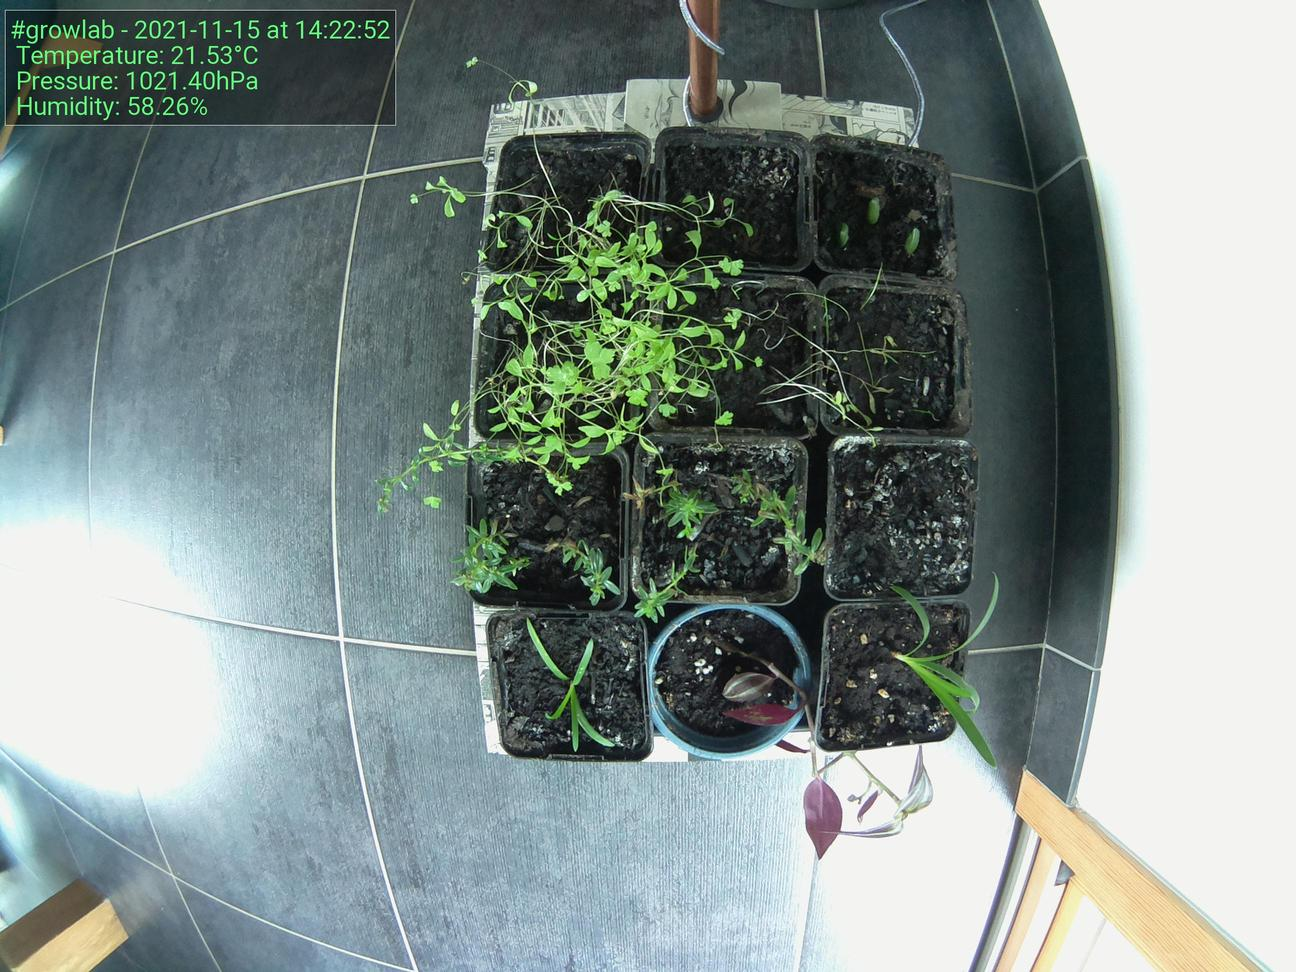
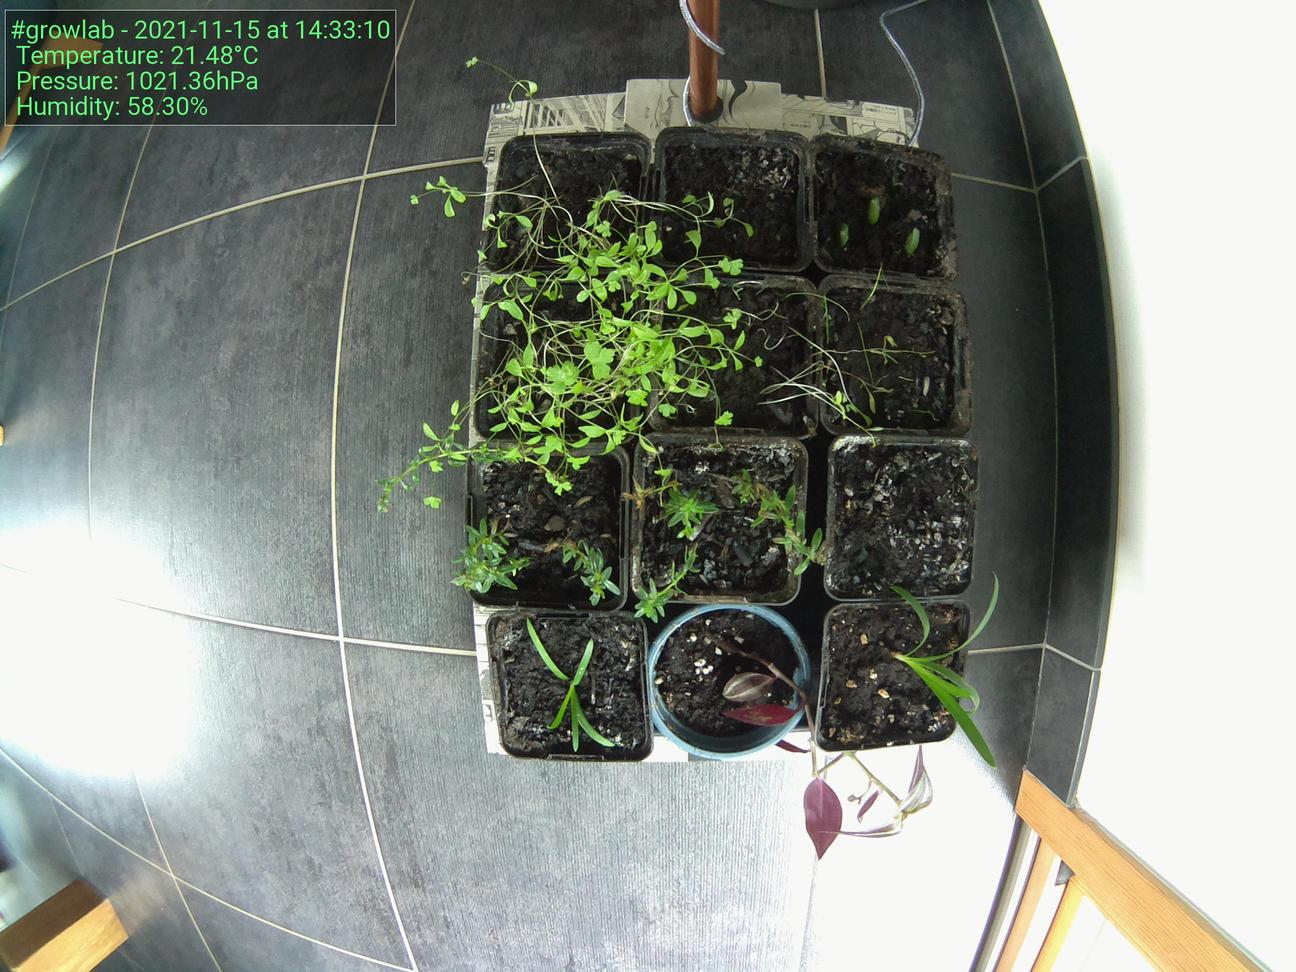
Update images at Mon 15 Nov 14:33:19 CET 2021

diff --git a/docs/index.html b/docs/index.html
@@ -52,19 +52,19 @@
                             </tr>
                             <tr>
                                 <td>Time</td>
-                                <td>14:22:52</td>
+                                <td>14:33:10</td>
                             </tr>
                             <tr>
                                 <td>Temperature</td>
-                                <td>21.53°C</td>
+                                <td>21.48°C</td>
                             </tr>
                             <tr>
                                 <td>Humidity</td>
-                                <td>58.26%</td>
+                                <td>58.30%</td>
                             </tr>
                             <tr>
                                 <td>Pressure</td>
-                                <td>1021.40hPa</td>
+                                <td>1021.36hPa</td>
                             </tr>
                         </tbody>
                     </table>
@@ -72,7 +72,7 @@
 
                 <h5>Latest image</h5>
                 <div style="width: 85%;">
-                            <img class="figure-img img-fluid rounded" src="./preview.jpg?uid=1636982581.4050734">
+                            <img class="figure-img img-fluid rounded" src="./preview.jpg?uid=1636983199.0602803">
                 </div>
             </div>
         </div>
